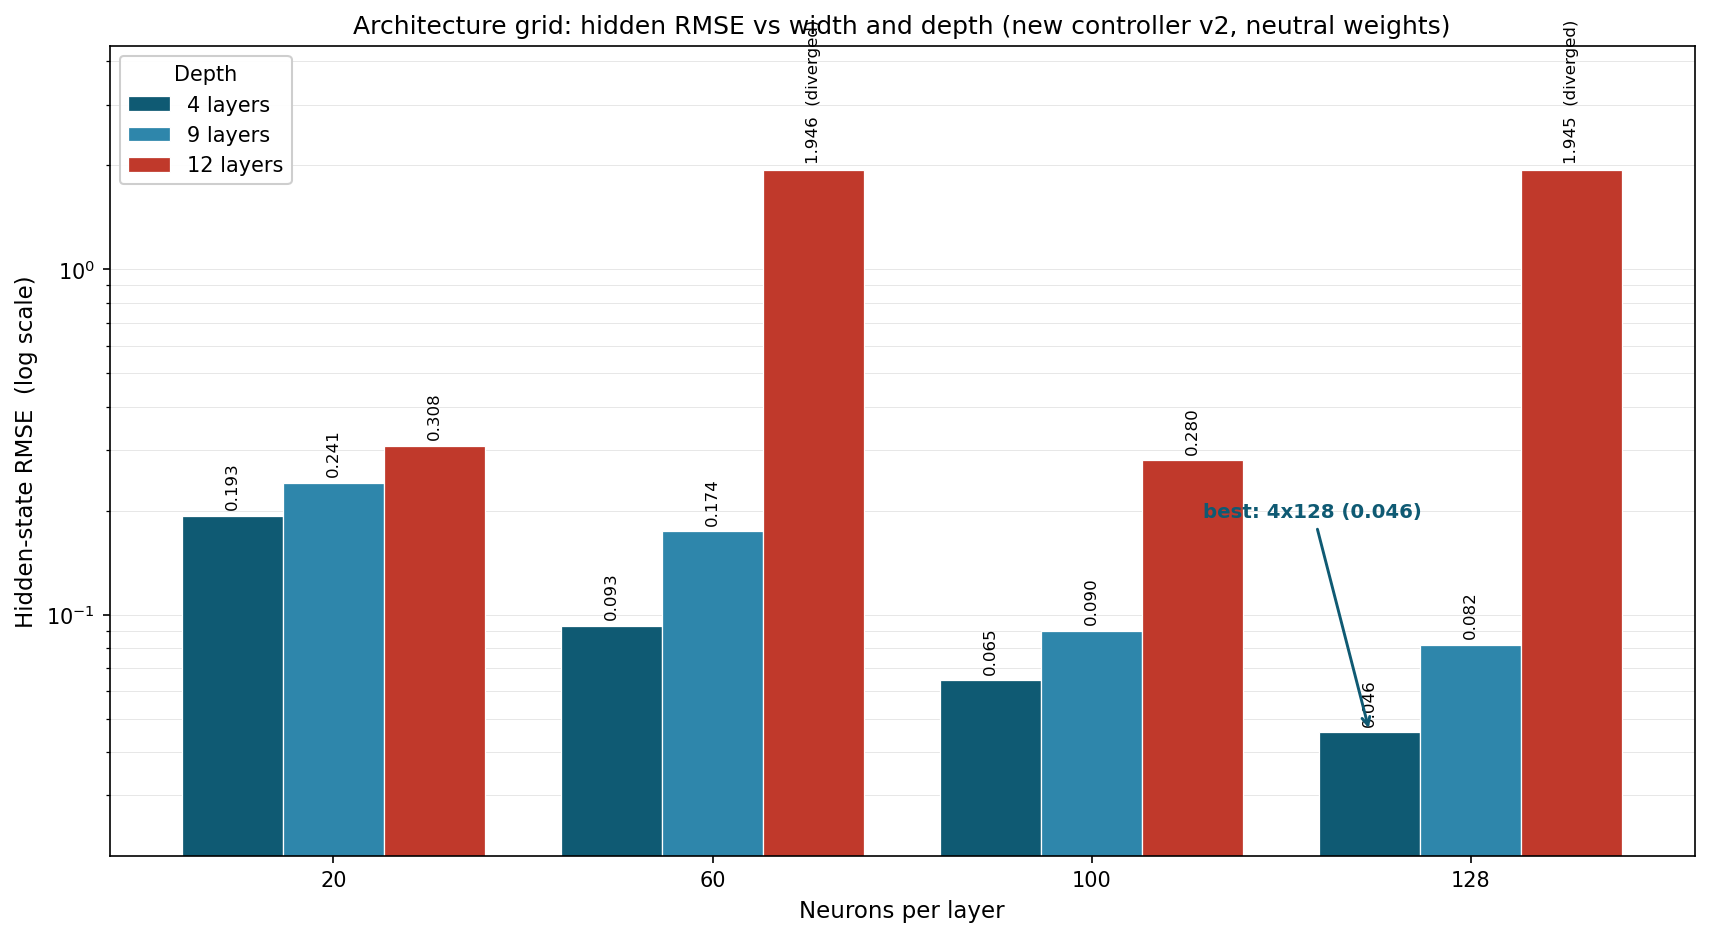
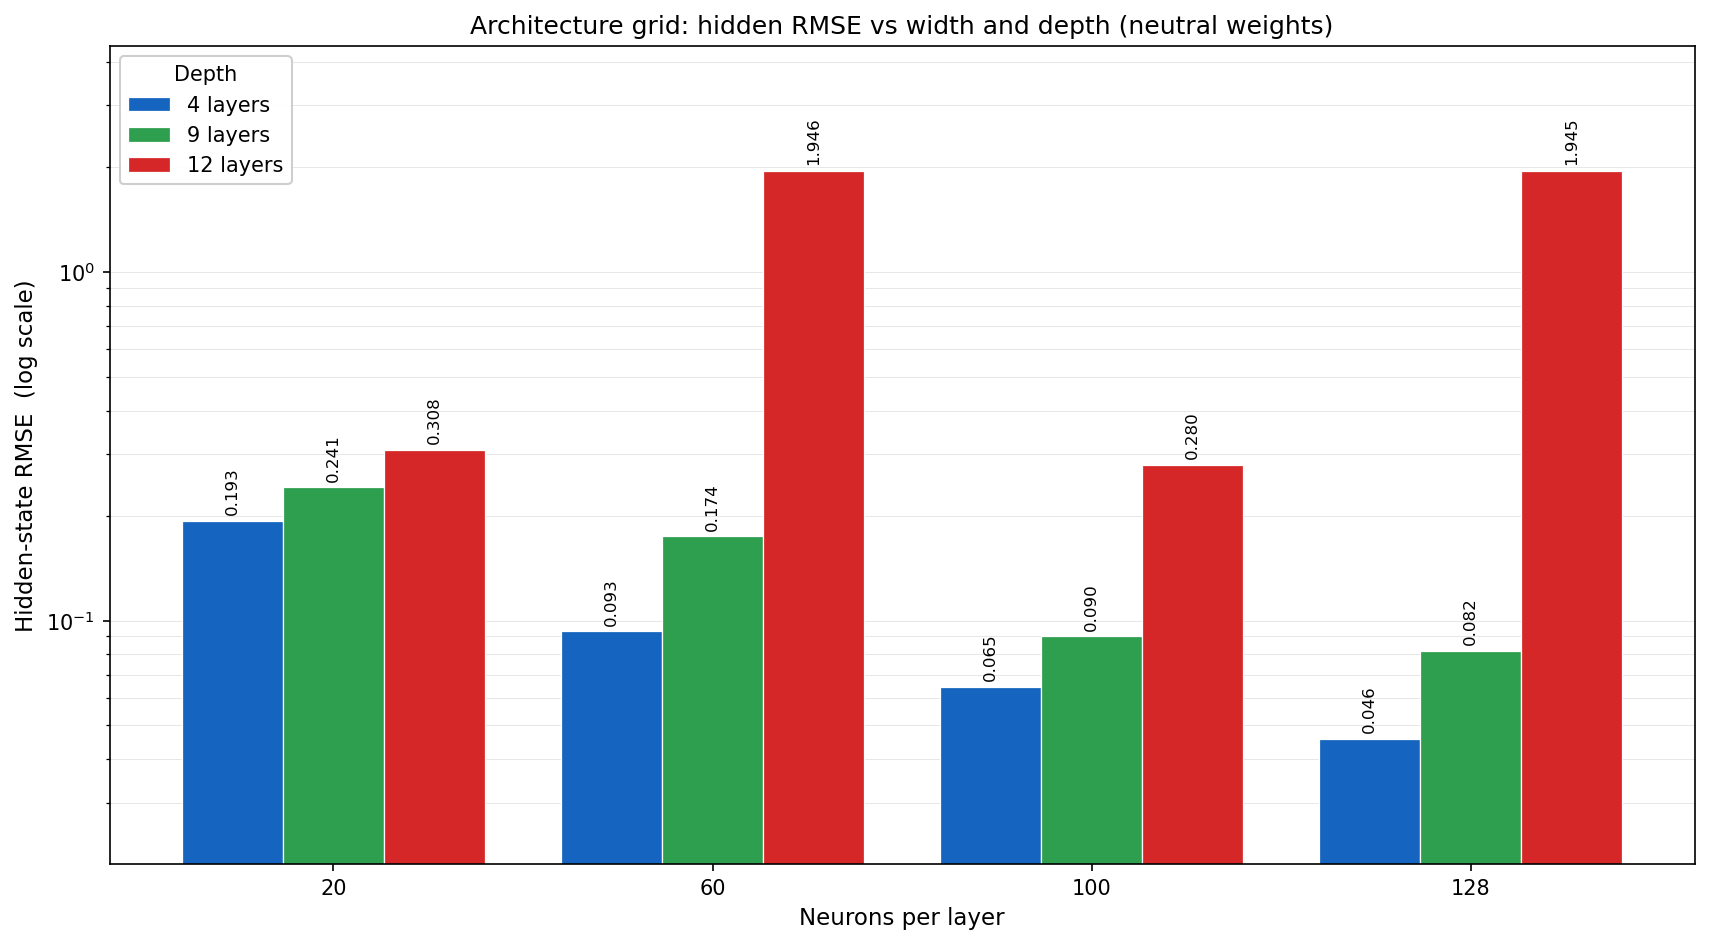
Arch grid v2: blue/green/red contrast, remove callouts

diff --git a/Layers_Neurons_Simulation/plot_arch_v2.py b/Layers_Neurons_Simulation/plot_arch_v2.py
@@ -21,7 +21,7 @@ for r in rows:
     data.setdefault(L, {})[H] = (float(r["rmse_meas"]), float(r["rmse_hidden"]), int(r["params"]))
 LAYERS  = sorted(data)
 NEURONS = sorted({int(r["neurons"]) for r in rows})
-COLORS  = {4: "#0F5A73", 9: "#2E86AB", 12: "#C0392B"}
+COLORS  = {4: "#1565C0", 9: "#2E9E4F", 12: "#D62728"}   # blue / green / red
 
 # best architecture by hidden RMSE among converged runs
 conv = [(int(r["layers"]), int(r["neurons"]), float(r["rmse_hidden"]))
@@ -38,7 +38,7 @@ for i, L in enumerate(LAYERS):
                   color=COLORS.get(L, "#888888"), edgecolor="white", linewidth=0.6)
     for b, v in zip(bars, vals):
         if np.isfinite(v):
-            txt = f"{v:.3f}" + ("  (diverged)" if v >= DIVERGE else "")
+            txt = f"{v:.3f}"
             ax.annotate(txt, (b.get_x() + b.get_width()/2, v), xytext=(0, 3),
                         textcoords="offset points", ha="center", va="bottom",
                         fontsize=8, rotation=90)
@@ -46,15 +46,10 @@ ax.set_yscale("log")
 ax.set_xticks(x); ax.set_xticklabels(NEURONS)
 ax.set_xlabel("Neurons per layer", fontsize=11)
 ax.set_ylabel("Hidden-state RMSE  (log scale)", fontsize=11)
-ax.set_title("Architecture grid: hidden RMSE vs width and depth "
-             "(new controller v2, neutral weights)", fontsize=12)
+ax.set_title("Architecture grid: hidden RMSE vs width and depth (neutral weights)",
+             fontsize=12)
 ax.grid(axis="y", which="both", ls="-", lw=0.4, alpha=0.35); ax.set_axisbelow(True)
 ax.legend(title="Depth", loc="upper left", framealpha=0.95); ax.margins(y=0.22)
-# annotate the winner
-bx = list(NEURONS).index(bestH) + (LAYERS.index(bestL) - (n-1)/2) * w
-ax.annotate(f"best: {bestL}x{bestH} ({best_val:.3f})", (bx, best_val),
-            xytext=(bx - 0.15, best_val*4.2), ha="center", fontsize=9.5, fontweight="bold",
-            color="#0F5A73", arrowprops=dict(arrowstyle="->", color="#0F5A73", lw=1.4))
 fig.tight_layout()
 PNG = os.path.join(HERE, "arch_grid_v2.png")
 fig.savefig(PNG, dpi=150, bbox_inches="tight"); plt.close(fig)
